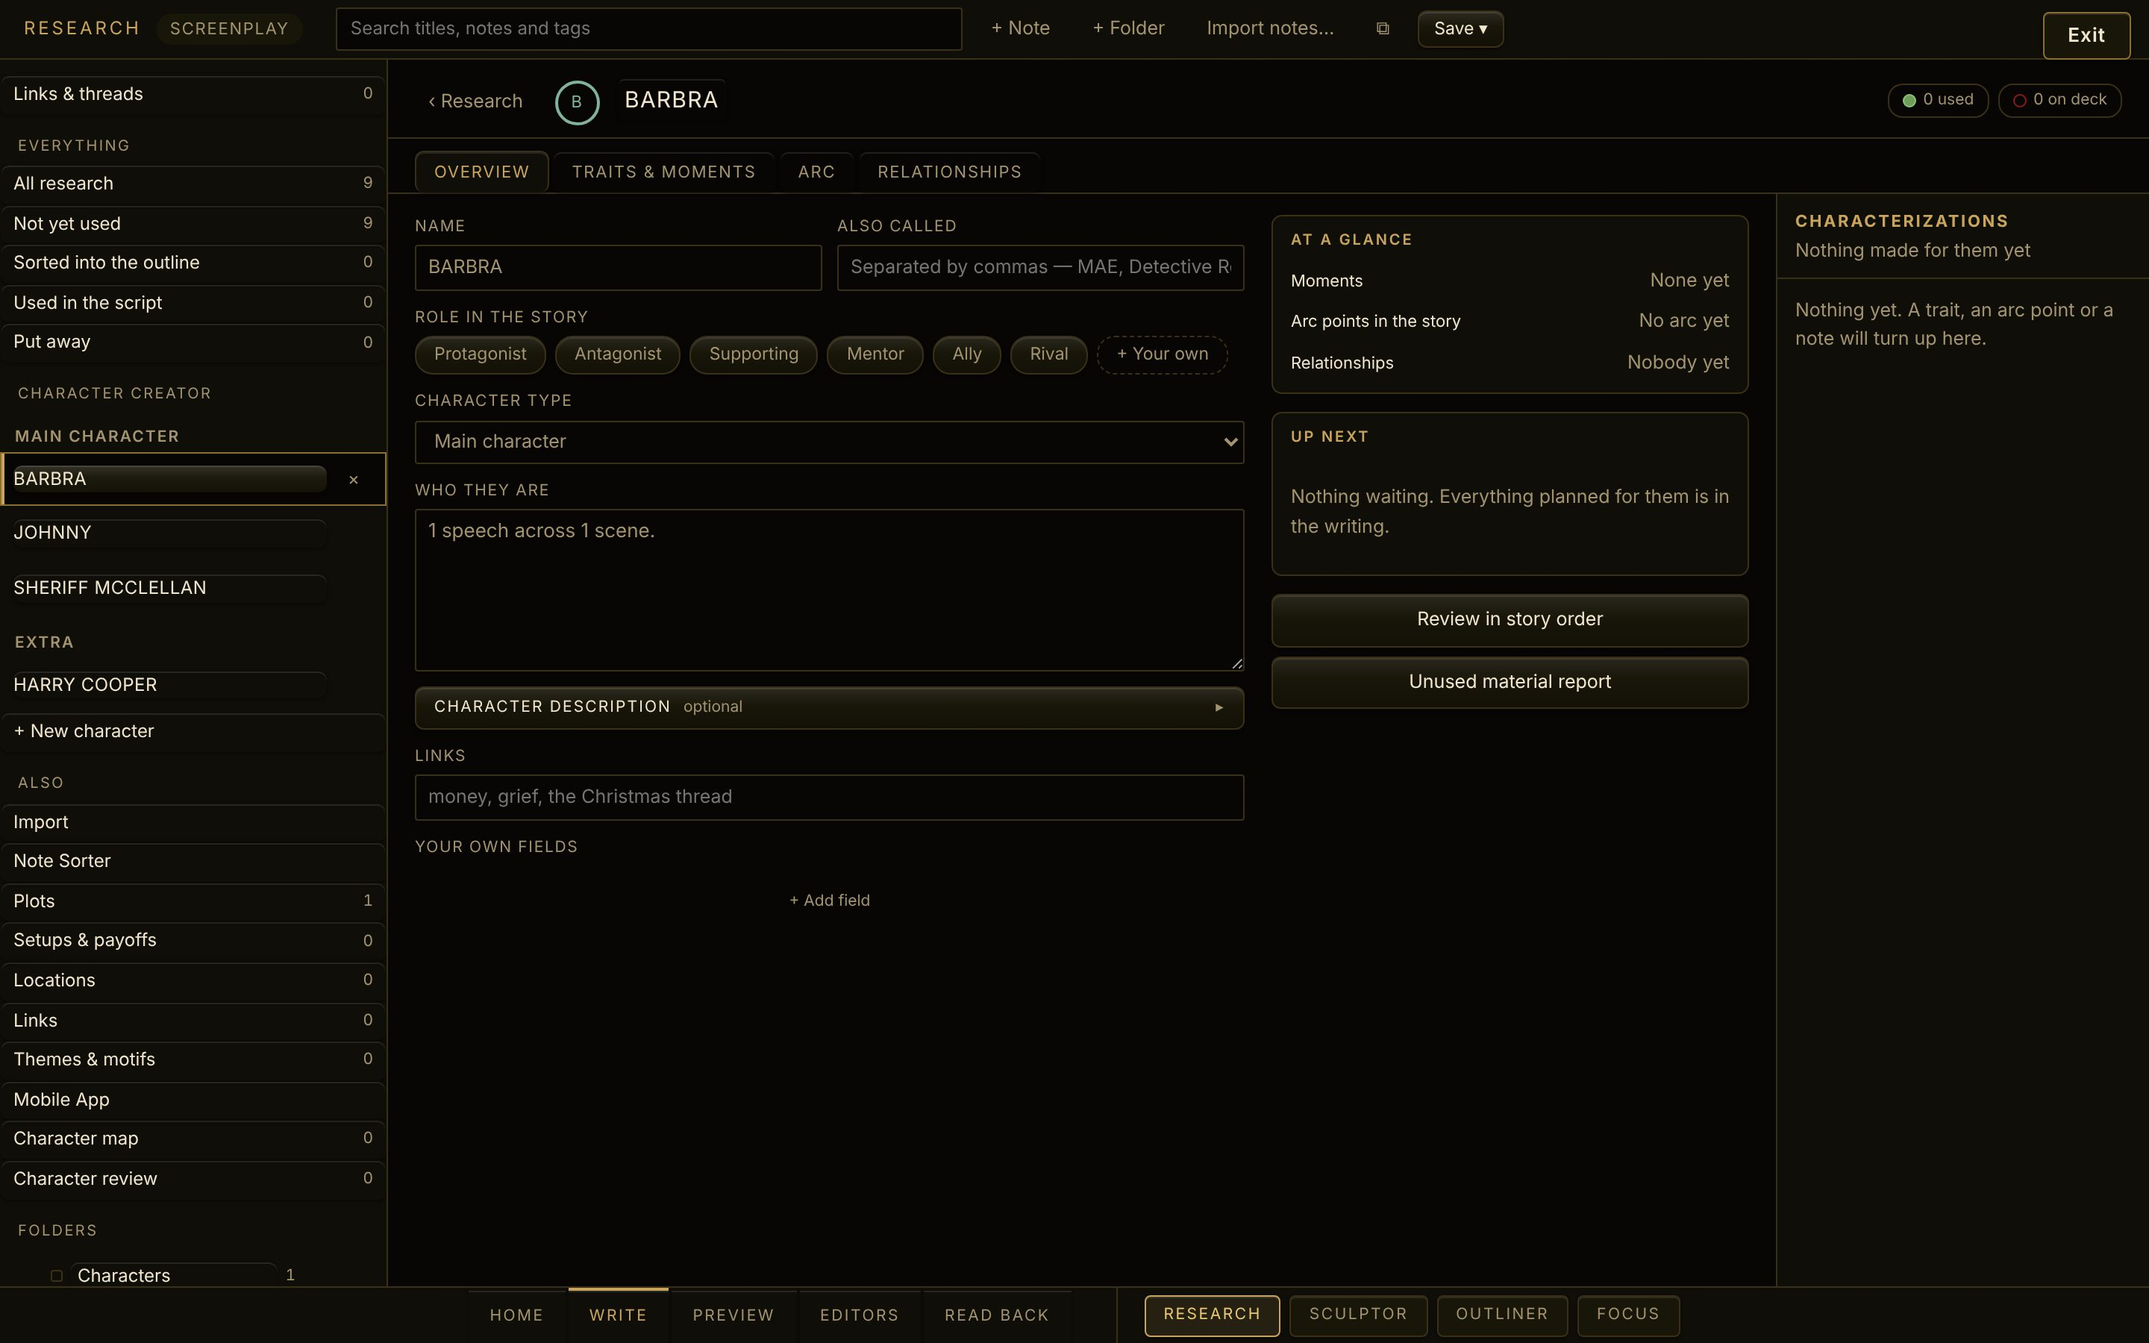
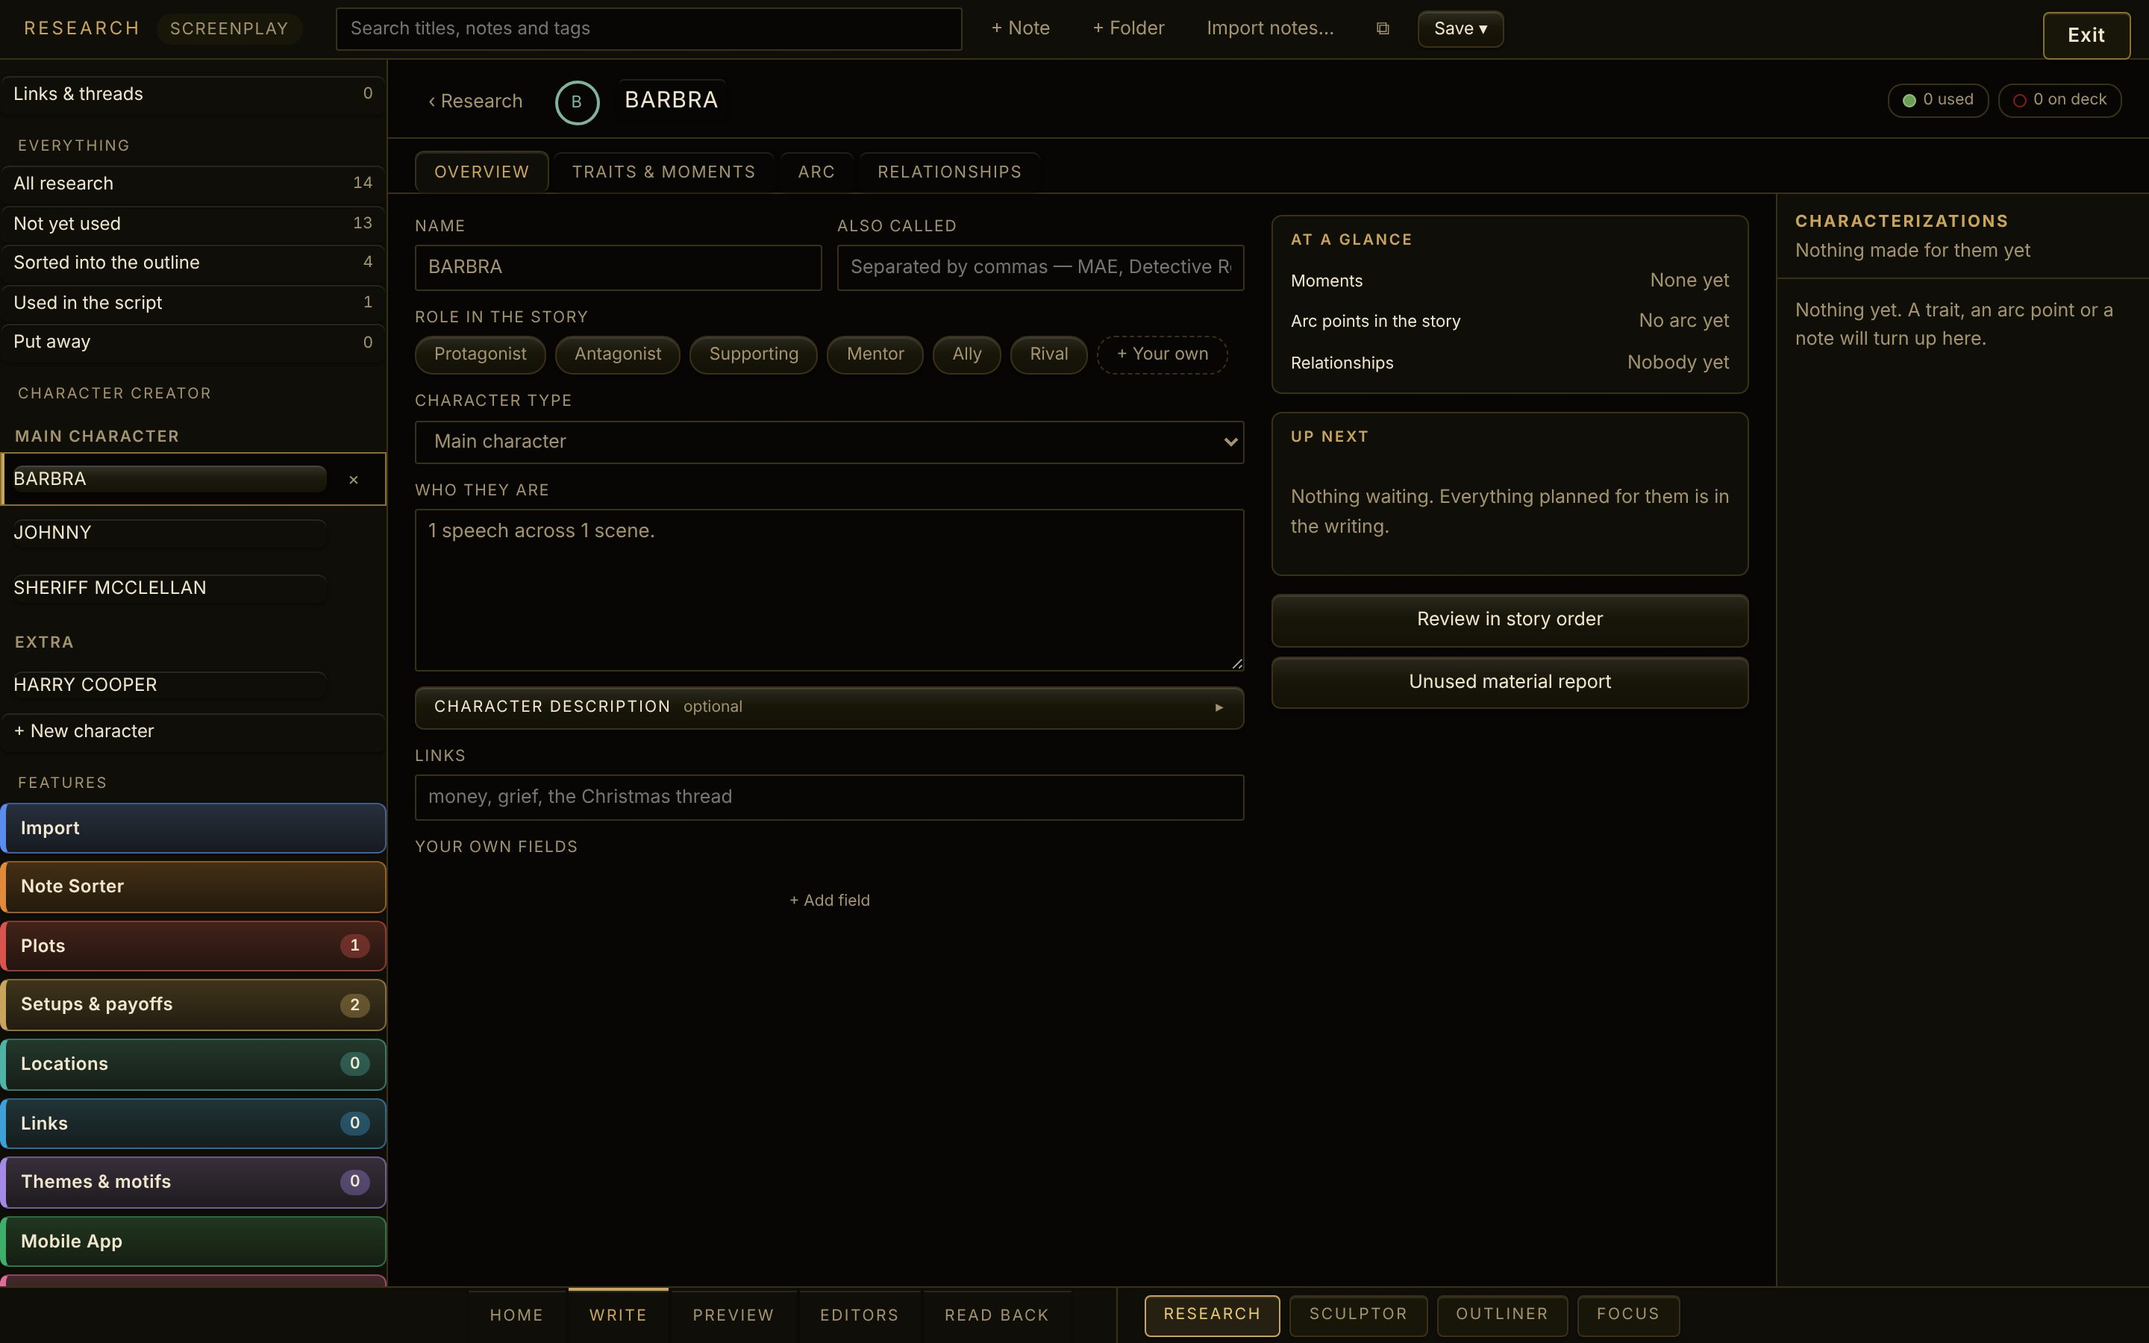
Spelling menu asks the system checker too; Research features are coloured buttons
The right-click menu in the desktop app asked only the bundled dictionary,
while the red underline came from the operating system's checker, so an
underlined word could have no replacement offered. checkWord, which feeds
every right-click menu in the program, now asks both: a word either marks is
misspelled, with the system's suggestions first. Ignore, Add to Dictionary
and the project's own names quiet both checkers.

Research's side-menu features (Import, Note Sorter, Graphics, Plots, Setups
& payoffs, Locations, Links, Themes & motifs, Mobile App, Character map,
Character review) are now coloured buttons under Features, each its own
colour, so they no longer read as outline folders.

Claude-Session: https://claude.ai/code/session_01HufyX56kuynopRgv2CJ1Ch

Changed region(s): [[0.0, 0.5911, 0.1875, 0.9644]]

diff --git a/apps/desktop/src/renderer/components/ResearchWindow.tsx b/apps/desktop/src/renderer/components/ResearchWindow.tsx
@@ -1043,8 +1043,8 @@ export function ResearchBody({
             </>
           ) : null}
 
-          <h4>Also</h4>
-          <ul className="research-views">
+          <h4>Features</h4>
+          <ul className="research-views research-features">
             {/* **Every format's** (addendum 33). It was an instructional
                 book's alone, which is a fair reading of who has a folder of
                 lecture notes and a wrong one about who has research: a
@@ -1054,6 +1054,7 @@ export function ResearchBody({
                 drawn. Nothing in `importFiles` asks the format. */}
             <li>
               <button
+                data-feature="import"
                 type="button"
                 className={selection.kind === 'importer' ? 'folder-row selected' : 'folder-row'}
                 title="Bring in notes, documents and pictures"
@@ -1071,6 +1072,7 @@ export function ResearchBody({
             {onOpenSorter ? (
               <li>
                 <button
+                data-feature="sorter"
                   type="button"
                   className="folder-row"
                   title="Read a page of notes, highlight, and drop the pieces into categories"
@@ -1086,6 +1088,7 @@ export function ResearchBody({
             {prose ? (
               <li>
                 <button
+                data-feature="graphics"
                   type="button"
                   className={selection.kind === 'graphics' ? 'folder-row selected' : 'folder-row'}
                   title="The book’s pictures: plates, chapter art and figures"
@@ -1105,6 +1108,7 @@ export function ResearchBody({
               <>
                 <li>
                   <button
+                data-feature="plots"
                     type="button"
                     className={selection.kind === 'plots' ? 'folder-row selected' : 'folder-row'}
                     onClick={() => setSelection({ kind: 'plots' })}
@@ -1115,6 +1119,7 @@ export function ResearchBody({
                 </li>
                 <li>
                   <button
+                data-feature="setups"
                     type="button"
                     className={selection.kind === 'setups' ? 'folder-row selected' : 'folder-row'}
                     onClick={() => setSelection({ kind: 'setups' })}
@@ -1129,6 +1134,7 @@ export function ResearchBody({
                     a location is a project asset like a character (addendum 14). */}
                 <li>
                   <button
+                data-feature="locations"
                     type="button"
                     className={selection.kind === 'locations' ? 'folder-row selected' : 'folder-row'}
                     onClick={() => setSelection({ kind: 'locations' })}
@@ -1148,6 +1154,7 @@ export function ResearchBody({
                 the track engine for all four and belongs to none. */}
             <li>
               <button
+                data-feature="links"
                 type="button"
                 className={selection.kind === 'links' ? 'folder-row selected' : 'folder-row'}
                 title="How story elements travel through the script"
@@ -1162,6 +1169,7 @@ export function ResearchBody({
                 is where a writer looks for the pair. */}
             <li>
               <button
+                data-feature="themes"
                 type="button"
                 className={selection.kind === 'thematics' ? 'folder-row selected' : 'folder-row'}
                 onClick={() => setSelection({ kind: 'thematics' })}
@@ -1172,6 +1180,7 @@ export function ResearchBody({
             </li>
             <li>
               <button
+                data-feature="mobile"
                 type="button"
                 className={selection.kind === 'mobile' ? 'folder-row selected' : 'folder-row'}
                 title="What the phone caught, waiting to be put somewhere"
@@ -1189,6 +1198,7 @@ export function ResearchBody({
               <>
                 <li>
                   <button
+                data-feature="charmap"
                     type="button"
                     className={selection.kind === 'charmap' ? 'folder-row selected' : 'folder-row'}
                     onClick={() => setSelection({ kind: 'charmap' })}
@@ -1199,6 +1209,7 @@ export function ResearchBody({
                 </li>
                 <li>
                   <button
+                data-feature="review"
                     type="button"
                     className={selection.kind === 'review' ? 'folder-row selected' : 'folder-row'}
                     onClick={() => {

diff --git a/apps/desktop/src/renderer/spelling.ts b/apps/desktop/src/renderer/spelling.ts
@@ -96,6 +96,54 @@ const LETTERS = /^[\p{L}][\p{L}'’-]*$/u;
 export const checkWord = (raw: string): { misspelled: boolean; suggestions: string[] } => {
   const word = raw.replace(/^[^\p{L}]+|[^\p{L}]+$/gu, '').replace(/’/g, "'");
   if (word.length < 2 || !LETTERS.test(word)) return { misspelled: false, suggestions: [] };
+  const own = checkOwn(word);
+  /**
+   * **And the checker that drew the underline** (from Ken: *the spell checker
+   * catches misspellings but does not give you the standard right click menu
+   * to change out the word*). In the desktop app the red line is the
+   * operating system's, while this menu asked only the bundled dictionary;
+   * where the two disagreed the word was underlined and the menu had nothing
+   * to put in its place. Now a word either calls wrong is wrong, and the
+   * suggestions are the system's first, then the bundled ones, each once.
+   */
+  const native = nativeCheck(word);
+  if (!own.misspelled && !native.misspelled) return own;
+  if (ignored.has(word.toLowerCase()) || projectWordsLower().has(word.toLowerCase())) return { misspelled: false, suggestions: [] };
+  const merged = [...native.suggestions, ...own.suggestions, ...(own.misspelled ? [] : ownSuggest(word))];
+  const seen = new Set<string>();
+  const suggestions = merged.filter((one) => {
+    const key = one.toLowerCase();
+    if (seen.has(key) || key === word.toLowerCase()) return false;
+    seen.add(key);
+    return true;
+  });
+  return { misspelled: true, suggestions: suggestions.slice(0, 8) };
+};
+
+/** The project's own names and the writer's own words, which no checker should mark. */
+const projectWordsLower = (): Set<string> => new Set([...projectWords, ...personal()].map((one) => one.toLowerCase()));
+
+/** The operating system's verdict, where the desktop app can ask it; nothing in a browser. */
+const nativeCheck = (word: string): { misspelled: boolean; suggestions: string[] } => {
+  try {
+    const bridge = (window as unknown as { vcwriter?: { spelling?: { check(word: string): { misspelled: boolean; suggestions: string[] } } } }).vcwriter;
+    return bridge?.spelling?.check(word) ?? { misspelled: false, suggestions: [] };
+  } catch {
+    return { misspelled: false, suggestions: [] };
+  }
+};
+
+/** The bundled dictionary's suggestions for a word it thinks is fine but the system does not. */
+const ownSuggest = (word: string): string[] => {
+  try {
+    return ready().suggest(word).slice(0, 6);
+  } catch {
+    return [];
+  }
+};
+
+/** The bundled dictionary alone. */
+const checkOwn = (word: string): { misspelled: boolean; suggestions: string[] } => {
   const spell = ready();
   if (spell.correct(word)) return { misspelled: false, suggestions: [] };
   // A screenplay's cues and sluglines are in capitals: check them as words.
@@ -118,13 +166,19 @@ export const addToDictionary = (word: string): void => {
   } catch {
     // Kept for this session only.
   }
+  ignored.add(clean.toLowerCase());
   void window.vcwriter?.spelling?.addWord(clean);
 };
 
-/** Ignore it for this session: added to the checker, not saved. */
+/** Ignore it for this session: added to the checker, not saved, and asked of the system's no more. */
 export const ignoreWord = (word: string): void => {
-  if (word.trim()) ready().add(word.trim());
+  if (!word.trim()) return;
+  ready().add(word.trim());
+  ignored.add(word.trim().toLowerCase());
 };
+
+/** Words ignored this session or added to the dictionary: the system's checker is not asked about them. */
+const ignored = new Set<string>();
 
 const STEMS: [RegExp, string][] = [
   [/ies$/, 'y'],

diff --git a/apps/desktop/src/renderer/workspace.css b/apps/desktop/src/renderer/workspace.css
@@ -23691,3 +23691,65 @@ input.note-rewrite-title:focus { border-color: var(--gold); outline: none; }
 .element.line-drop-after {
   box-shadow: 0 3px 0 var(--gold);
 }
+
+/* The features in Research's side menu, as buttons (from Ken: *these all
+   need to be buttons, colorized so they look different … they look like
+   they're part of the outline and the folder structure; we want them to look
+   like features*). Each has its own colour, a filled face and a border, so
+   none can be mistaken for a folder. */
+.research-features {
+  display: grid;
+  gap: 5px;
+  padding: 2px 6px 6px;
+}
+
+.research-features .folder-row[data-feature] {
+  --feature: var(--gold);
+  display: flex;
+  align-items: center;
+  width: 100%;
+  padding: 7px 10px;
+  border: 1px solid color-mix(in srgb, var(--feature) 55%, transparent);
+  border-left: 4px solid var(--feature);
+  border-radius: 6px;
+  background: linear-gradient(180deg, color-mix(in srgb, var(--feature) 22%, var(--panel-2)), color-mix(in srgb, var(--feature) 10%, var(--panel)));
+  box-shadow: 0 1px 2px rgba(0, 0, 0, 0.35);
+  font-weight: 600;
+  letter-spacing: 0.02em;
+  cursor: pointer;
+}
+
+.research-features .folder-row[data-feature] .folder-name {
+  color: var(--text);
+}
+
+.research-features .folder-row[data-feature] .count {
+  margin-left: auto;
+  min-width: 20px;
+  padding: 0 6px;
+  border-radius: 10px;
+  background: color-mix(in srgb, var(--feature) 35%, transparent);
+  color: var(--text);
+  text-align: center;
+}
+
+.research-features .folder-row[data-feature]:hover {
+  background: color-mix(in srgb, var(--feature) 32%, var(--panel-2));
+}
+
+.research-features .folder-row[data-feature].selected {
+  background: color-mix(in srgb, var(--feature) 40%, var(--panel-2));
+  box-shadow: 0 0 0 2px var(--feature);
+}
+
+.research-features .folder-row[data-feature='import'] { --feature: #5b8def; }
+.research-features .folder-row[data-feature='sorter'] { --feature: #e08a3c; }
+.research-features .folder-row[data-feature='graphics'] { --feature: #c25bd6; }
+.research-features .folder-row[data-feature='plots'] { --feature: #d9534f; }
+.research-features .folder-row[data-feature='setups'] { --feature: #c9a45c; }
+.research-features .folder-row[data-feature='locations'] { --feature: #4fb3a5; }
+.research-features .folder-row[data-feature='links'] { --feature: #3ea0d6; }
+.research-features .folder-row[data-feature='themes'] { --feature: #a48ae6; }
+.research-features .folder-row[data-feature='mobile'] { --feature: #3fae6a; }
+.research-features .folder-row[data-feature='charmap'] { --feature: #e06b9a; }
+.research-features .folder-row[data-feature='review'] { --feature: #8fa83a; }

diff --git a/apps/desktop/src/renderer/__tests__/spelling-both-checkers.test.ts b/apps/desktop/src/renderer/__tests__/spelling-both-checkers.test.ts
@@ -1,0 +1,51 @@
+// @vitest-environment jsdom
+import { afterEach, describe, expect, it } from 'vitest';
+import { checkWord, ignoreWord } from '../spelling';
+
+/**
+ * The right-click menu offers a replacement for any word the red line marks
+ * (from Ken: *the spell checker catches misspellings but does not give you the
+ * standard right click menu to change out the word*): the operating system's
+ * checker draws the line in the desktop app, so the menu asks it too.
+ */
+const fake = (marks: Record<string, string[]>) => {
+  (window as unknown as { vcwriter: unknown }).vcwriter = {
+    spelling: {
+      check: (word: string) => (word in marks ? { misspelled: true, suggestions: marks[word]! } : { misspelled: false, suggestions: [] }),
+      addWord: async () => true,
+    },
+  };
+};
+
+afterEach(() => {
+  delete (window as unknown as { vcwriter?: unknown }).vcwriter;
+});
+
+describe('spelling in the menu', () => {
+  it('still offers the bundled suggestions in a browser', () => {
+    const checked = checkWord('recieve');
+    expect(checked.misspelled).toBe(true);
+    expect(checked.suggestions).toContain('receive');
+  });
+
+  it('offers a replacement for a word only the system checker marks, its suggestions first', () => {
+    fake({ colour: ['color', 'colon'] });
+    const checked = checkWord('colour');
+    expect(checked.misspelled).toBe(true);
+    expect(checked.suggestions[0]).toBe('color');
+  });
+
+  it('merges both lists without repeats', () => {
+    fake({ recieve: ['receive', 'relive'] });
+    const checked = checkWord('recieve');
+    expect(checked.suggestions.filter((one) => one === 'receive')).toHaveLength(1);
+    expect(checked.suggestions).toContain('relive');
+  });
+
+  it('stops marking a word once it is ignored, for both checkers', () => {
+    fake({ grimdark: ['grim dark'] });
+    expect(checkWord('grimdark').misspelled).toBe(true);
+    ignoreWord('grimdark');
+    expect(checkWord('grimdark').misspelled).toBe(false);
+  });
+});

diff --git a/docs/spec/addendum-02-workspace.md b/docs/spec/addendum-02-workspace.md
@@ -3036,3 +3036,52 @@ it looks like it actually would if you were going to print it out.*
   (`scriptColumnWidth`) so the wider start reaches every install once; the
   divider still moves it.
 - Every screenshot (`apps/web/scripts/shots`) was retaken with the new page.
+
+## Spelling: both checkers, every right-click
+
+From Ken, 7 November: *the spell checker catches misspellings but does not
+give you the standard right click menu to change out the word. This needs to
+be standard everywhere in the program in all modules.*
+
+- **The cause.** In the desktop app the red underline is drawn by the
+  operating system's spellchecker, but the program's right-click menu asked
+  only the bundled dictionary (nspell). Where the two disagreed, the word was
+  underlined and the menu had no replacement for it. The browser preview,
+  where the bundled dictionary does both jobs, never showed the fault.
+- **The fix, in one place.** `checkWord` (`spelling.ts`) feeds every
+  right-click menu in the program: the program-wide `TextMenu`, the Write
+  page's own menu and the word processor's. It now also asks the system's
+  checker through the preload (`window.vcwriter.spelling.check`, Electron's
+  `webFrame`). A word either checker marks is misspelled. The suggestions are
+  the system's first, then the bundled dictionary's, each once, up to eight.
+- **Ignore and Add to Dictionary quiet both.** A word ignored this session,
+  added to the dictionary, or one of the project's own names (the cast, the
+  places) is no longer asked of the system's checker either, so it stops
+  being offered for correction everywhere at once.
+- Where the program's menu does not take a right-click at all, the main
+  process's native menu (`attachEditMenu`) still offers the system's
+  suggestions, as before.
+
+## Research's side menu: features as buttons
+
+From Ken: *import, the note sorter, graphics, links, themes and motifs —
+these all need to be buttons, colorized so they look different, because
+these are main features; they look like they're part of the outline and the
+folder structure.* The *Also* group is now **Features**. Each entry is a
+button with a filled face, a rounded border and its own colour:
+
+| Feature | Colour |
+| --- | --- |
+| Import | blue |
+| Note Sorter | orange |
+| Graphics | magenta |
+| Plots | red |
+| Setups & payoffs | gold |
+| Locations | teal |
+| Links | sky |
+| Themes & motifs | violet |
+| Mobile App | green |
+| Character map | pink |
+| Character review | olive |
+
+Each count sits in a pill. The open feature takes a ring of its colour.
